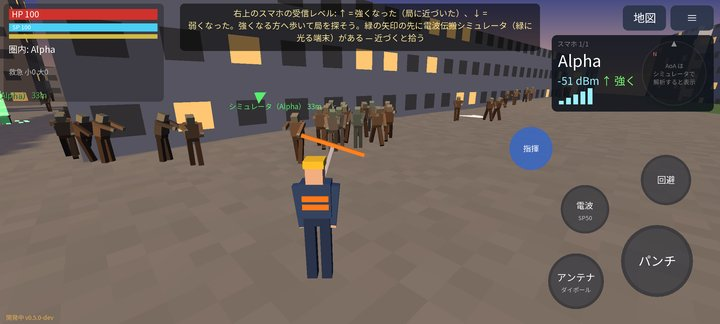
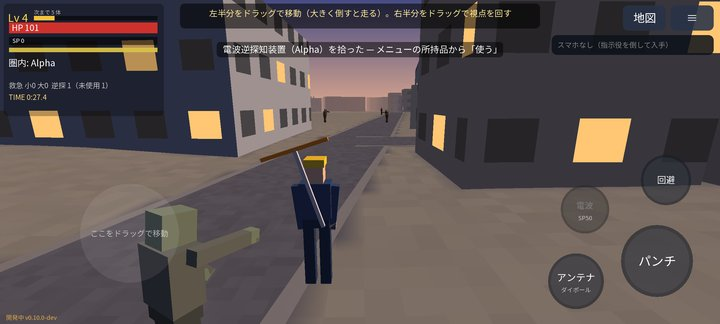
Phonetic Hound 0.10.0-dev (in development)

diff --git a/phonetic_hound/README.md b/phonetic_hound/README.md
@@ -10,13 +10,13 @@
 
 ## ダウンロード
 
-### [APK をダウンロード（v0.9.0-dev・10.8 MB）](https://github.com/kijitora-no-hito/android-apps/releases/download/phonetichound-v0.9.0-dev/phonetichound-0.9.0-dev-release.apk)
+### [APK をダウンロード（v0.10.0-dev・10.8 MB）](https://github.com/kijitora-no-hito/android-apps/releases/download/phonetichound-v0.10.0-dev/phonetichound-0.10.0-dev-release.apk)
 
 | 項目 | 内容 |
 | --- | --- |
-| バージョン | 0.9.0-dev（2026-09-27・開発中） |
-| ファイル | `phonetichound-0.9.0-dev-release.apk`（11,314,856 バイト） |
[1 lines of base64/hex data omitted]
+| バージョン | 0.10.0-dev（2026-09-27・開発中） |
+| ファイル | `phonetichound-0.10.0-dev-release.apk`（11,331,240 バイト） |
[1 lines of base64/hex data omitted]
 | 対応 Android | 7.0 以上（横画面） |
 | 価格 | 無料・広告なし・アプリ内課金なし・アカウント登録なし |
 
@@ -29,7 +29,7 @@
 - 街の携帯基地局（Alpha・Bravo・Charlie…）から出る電波がゾンビを操っています。ゾンビは電波の届く範囲でしか動けません。
 - スマホを持った**指示役のゾンビ**を倒すと、スマホが手に入ります。スマホには、その基地局の**信号の強さ**が出ます（強くなった ↑ / 弱くなった ↓）。
   信号が強くなる方へ歩いて基地局を探します。
-- 各基地局のエリアには**電波伝搬シミュレータ**が 1 台ずつ置いてあります。使うと、その局の位置と**カバレッジマップ**が地図に出て、
+- 各基地局のエリアには**電波逆探知装置**が 1 台ずつ置いてあります。使うと、その局の位置と**カバレッジマップ**が地図に出て、
   スマホに電波の**到来方向（AoA）**の矢印が出るようになります。ビルの壁で反射した電波は壁の方から届くので、矢印をうのみにしないこと。
 - スマホと同じ基地局に繋がっているゾンビは**指揮**できます（護衛・攻撃・待機）。
 - 小さな基地局の設備盤で**停波**すると制圧。制圧した基地局は休憩地点・復活地点になります。
@@ -40,7 +40,7 @@
 - マップは歩いた場所だけが見えます。ピンも置けます。
 - 街並みは実在の地形と建物のデータから作っています。電波は建物での反射・回折まで計算しています。
 
-## この版でできること（0.9.0-dev）
+## この版でできること（0.10.0-dev）
 
 - **全 6 ステージ**を、最初から巨大基地局の停波まで遊べます。開発中の版では、どのステージも最初から選べます。
 
@@ -56,6 +56,8 @@
 - **スコアアタック**: クリアタイム・撃破数・支配数を記録し、ステージごとに上位 10 件のランキングを端末に残します。
   リザルト画面の「結果を共有」で、スクリーンショット付きで SNS に投稿できます（ハッシュタグ #phonetichound）。
 - **記録画面**: ランキング・プレイ記録（総プレイ時間・討伐数など）・ステージ別の記録を見られます。
+- **レベルと成長**: 倒した敵の数でレベルが上がり（最大 Lv 999）、体力・パンチ・移動速度・スタミナにポイントを振れます（各 +200% まで）。
+- **チャレンジモード**: Lv 200 固定・セーブ無し・1 回倒れたら終わりの腕試し。専用のランキング付き。
 - アンテナ 5 種類（メニューの「装備」で持ち替え。手に入れたアンテナは次のステージにも持ち越し）。
 - BGM と効果音（ケルト伝統曲をアプリ内のシンセサイザーで演奏）。設定画面で音量とカメラの感度を変えられます。
 - 操作: 画面の左半分をドラッグで移動、右半分をドラッグで視点。右下のボタンで攻撃・回避・指揮・停波。
@@ -70,6 +72,17 @@
 版の見出しを押すと開閉します。
 
 <details open markdown="1">
+<summary><b>0.10.0-dev</b>（2026-09-27）</summary>
+
+- **レベルと成長**: 本編で倒した敵の数でレベルが上がり（最大 Lv 999）、1 レベルごとに 1 ポイント。体力・パンチ・移動速度・スタミナに振れます（1 ポイント = +1%、各 200 ポイントまで）。メニューの「成長」タブで振り、休憩地点では無料で振り直せます。
+- **チャレンジモード**: Lv 200 固定・セーブ無し・1 回倒れたら終わり。開始前にポイントを割り振ります。チャレンジ専用のランキングがあります。
+- **やり込みの記録**: 振らなかったポイントと振り直した回数をランキング・記録画面・共有に残します（「未使用ポイント最多でのクリア」「振り直し 0 回での最速クリア」）。
+- 電波伝搬シミュレータの名前を**電波逆探知装置**に変えました。
+- 0.9.0-dev から上書きインストールでき、それまでの討伐数からレベルが決まります。
+
+</details>
+
+<details markdown="1">
 <summary><b>0.9.0-dev</b>（2026-09-27）</summary>
 
 - **記録画面**: タイトルの「ランキング」を「記録」にし、ランキング / プレイ記録（総プレイ時間・討伐数の内訳・支配数・制圧数・アンテナの使用割合など）/ ステージ別（自己ベスト・クリア回数・累計）の 3 タブに。集計はこの版から（それ以前はランキングの記録から自己ベストとクリア回数だけ引き継ぎ）。フリープレイは累計に入りません。
@@ -176,6 +189,14 @@
 
 <table>
 <tr>
+<td align="center"><img src="images/34.jpg" width="340" alt="成長"><br>レベルアップしてポイントを割り振る</td>
+<td align="center"><img src="images/35.jpg" width="340" alt="チャレンジの割り振り"><br>チャレンジ（Lv 200）の割り振り</td>
+</tr>
+<tr>
+<td align="center"><img src="images/36.jpg" width="340" alt="GAME OVER"><br>チャレンジは 1 回倒れたら GAME OVER</td>
+<td align="center"><img src="images/37.jpg" width="340" alt="縛りの記録"><br>縛りの記録（ステージ別）</td>
+</tr>
+<tr>
 <td align="center"><img src="images/32.jpg" width="340" alt="プレイ記録"><br>記録画面（プレイ記録）</td>
 <td align="center"><img src="images/33.jpg" width="340" alt="ステージ別の記録"><br>記録画面（ステージ別）</td>
 </tr>
@@ -201,7 +222,7 @@
 </tr>
 <tr>
 <td align="center"><img src="images/19.jpg" width="340" alt="スマホの信号レベル"><br>スマホは信号の強さ（↑↓）だけ</td>
-<td align="center"><img src="images/20.jpg" width="340" alt="AoA"><br>シミュレータで解析した局は到来方向が出る</td>
+<td align="center"><img src="images/20.jpg" width="340" alt="AoA"><br>電波逆探知装置で解析した局は到来方向が出る</td>
 </tr>
 <tr>
 <td align="center"><img src="images/21.jpg" width="340" alt="溜め"><br>アンテナを溜めて振る</td>
@@ -233,7 +254,7 @@
 </tr>
 <tr>
 <td align="center"><img src="images/06.jpg" width="340" alt="バイコニカルの電波放射"><br>バイコニカルは周り全部に放射</td>
-<td align="center"><img src="images/22.jpg" width="340" alt="地面のシミュレータ"><br>各局のエリアに置いてあるシミュレータ（緑の光）</td>
+<td align="center"><img src="images/22.jpg" width="340" alt="地面の電波逆探知装置"><br>各局のエリアに置いてある電波逆探知装置（緑の光）</td>
 </tr>
 <tr>
 <td align="center"><img src="images/08.jpg" width="340" alt="停波"><br>基地局を停波中</td>
